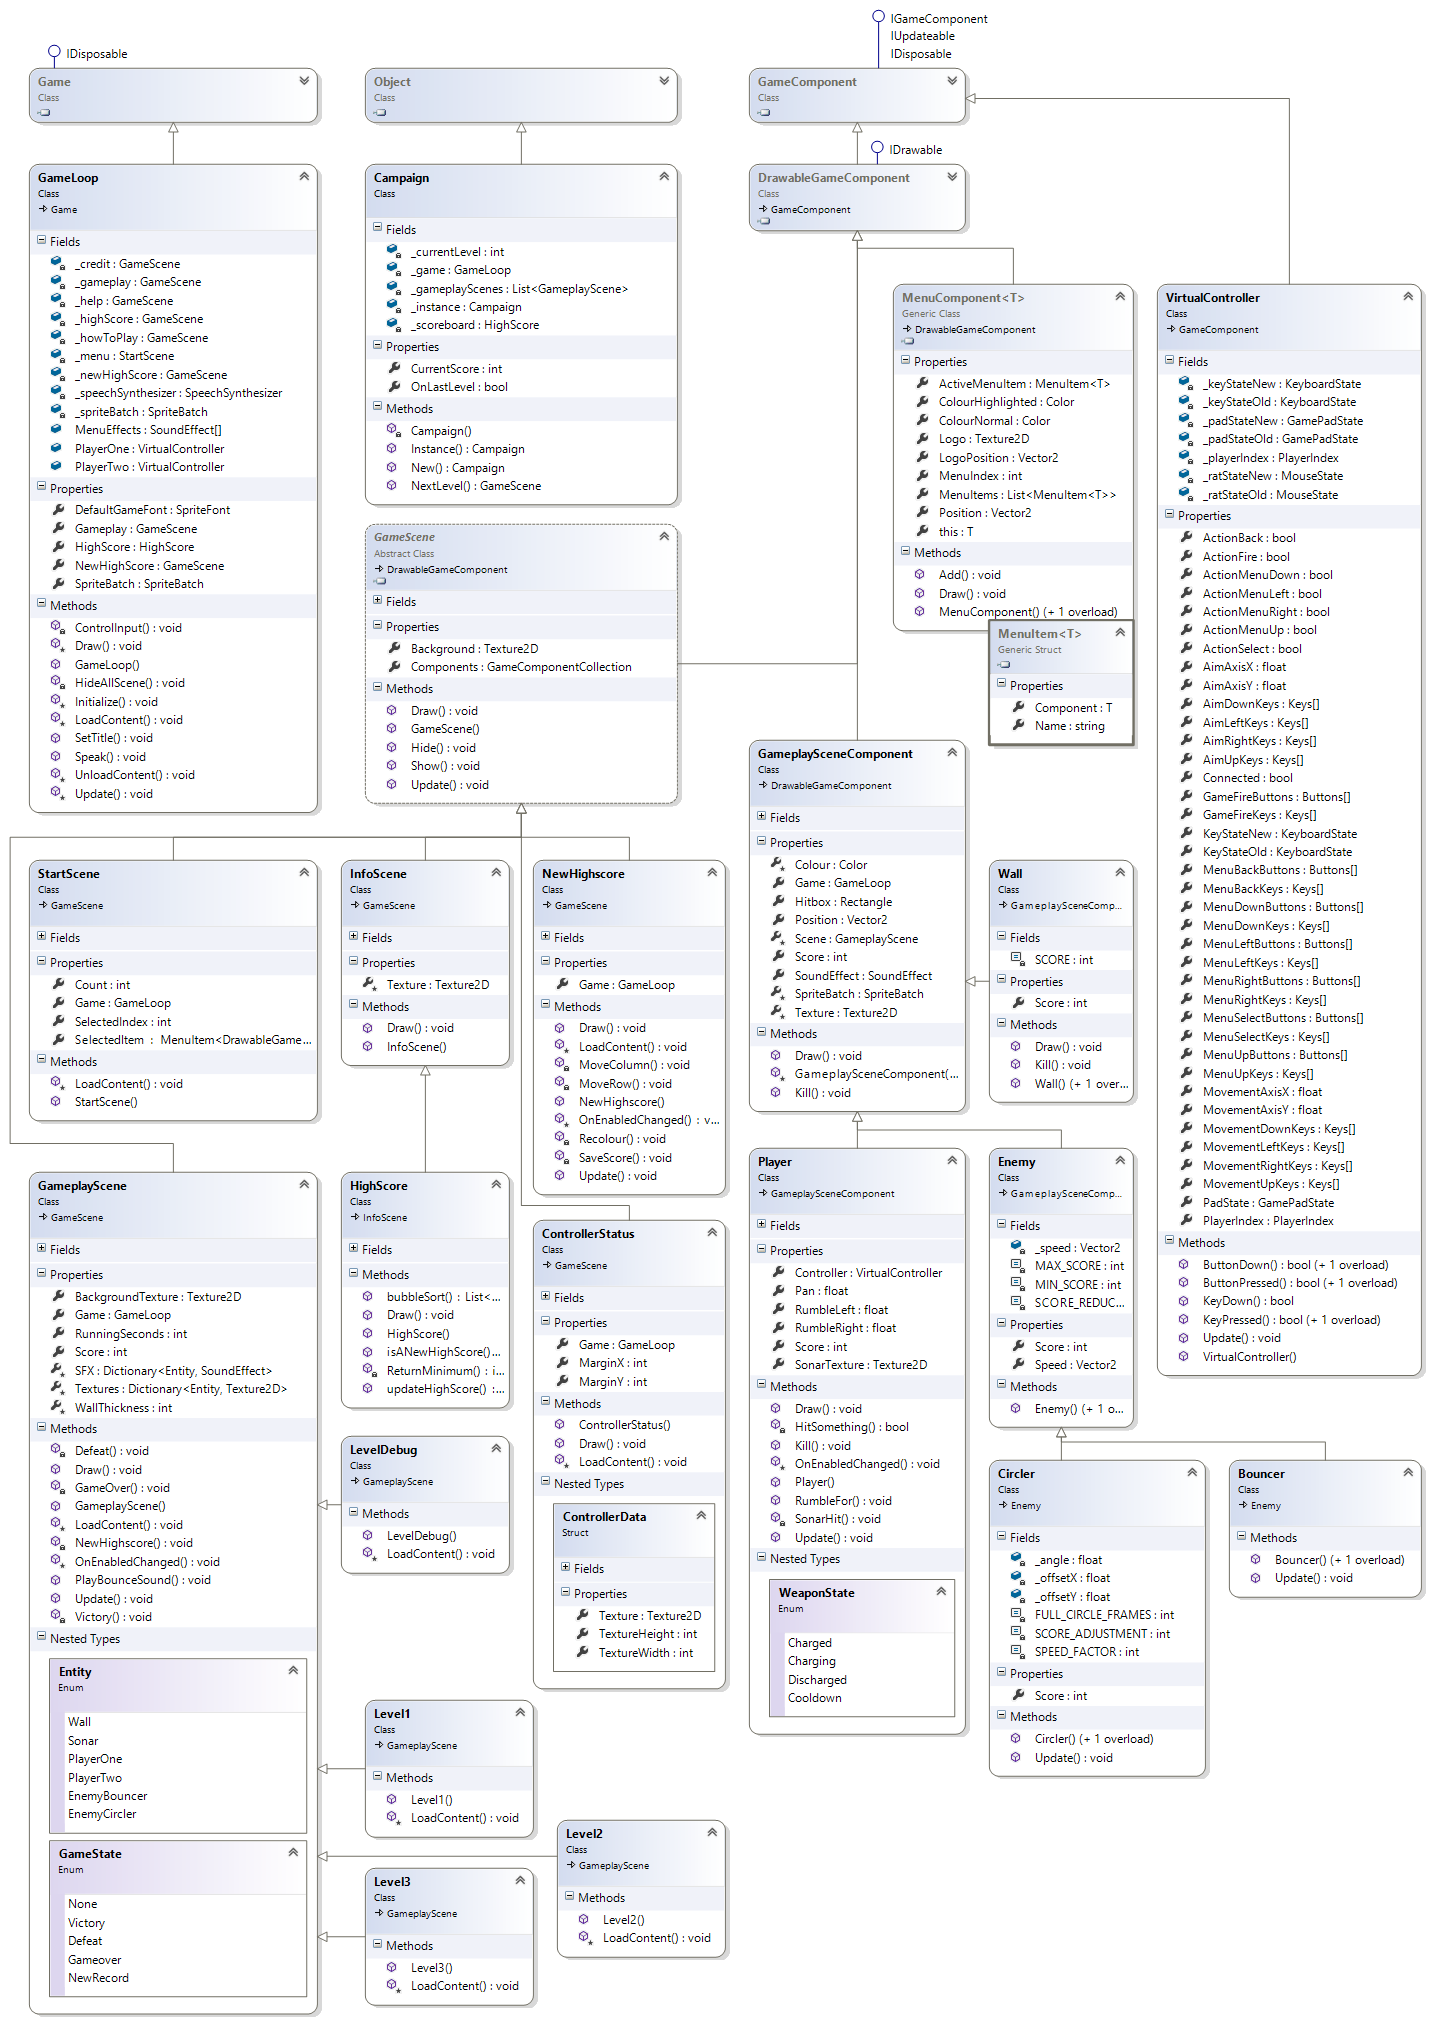
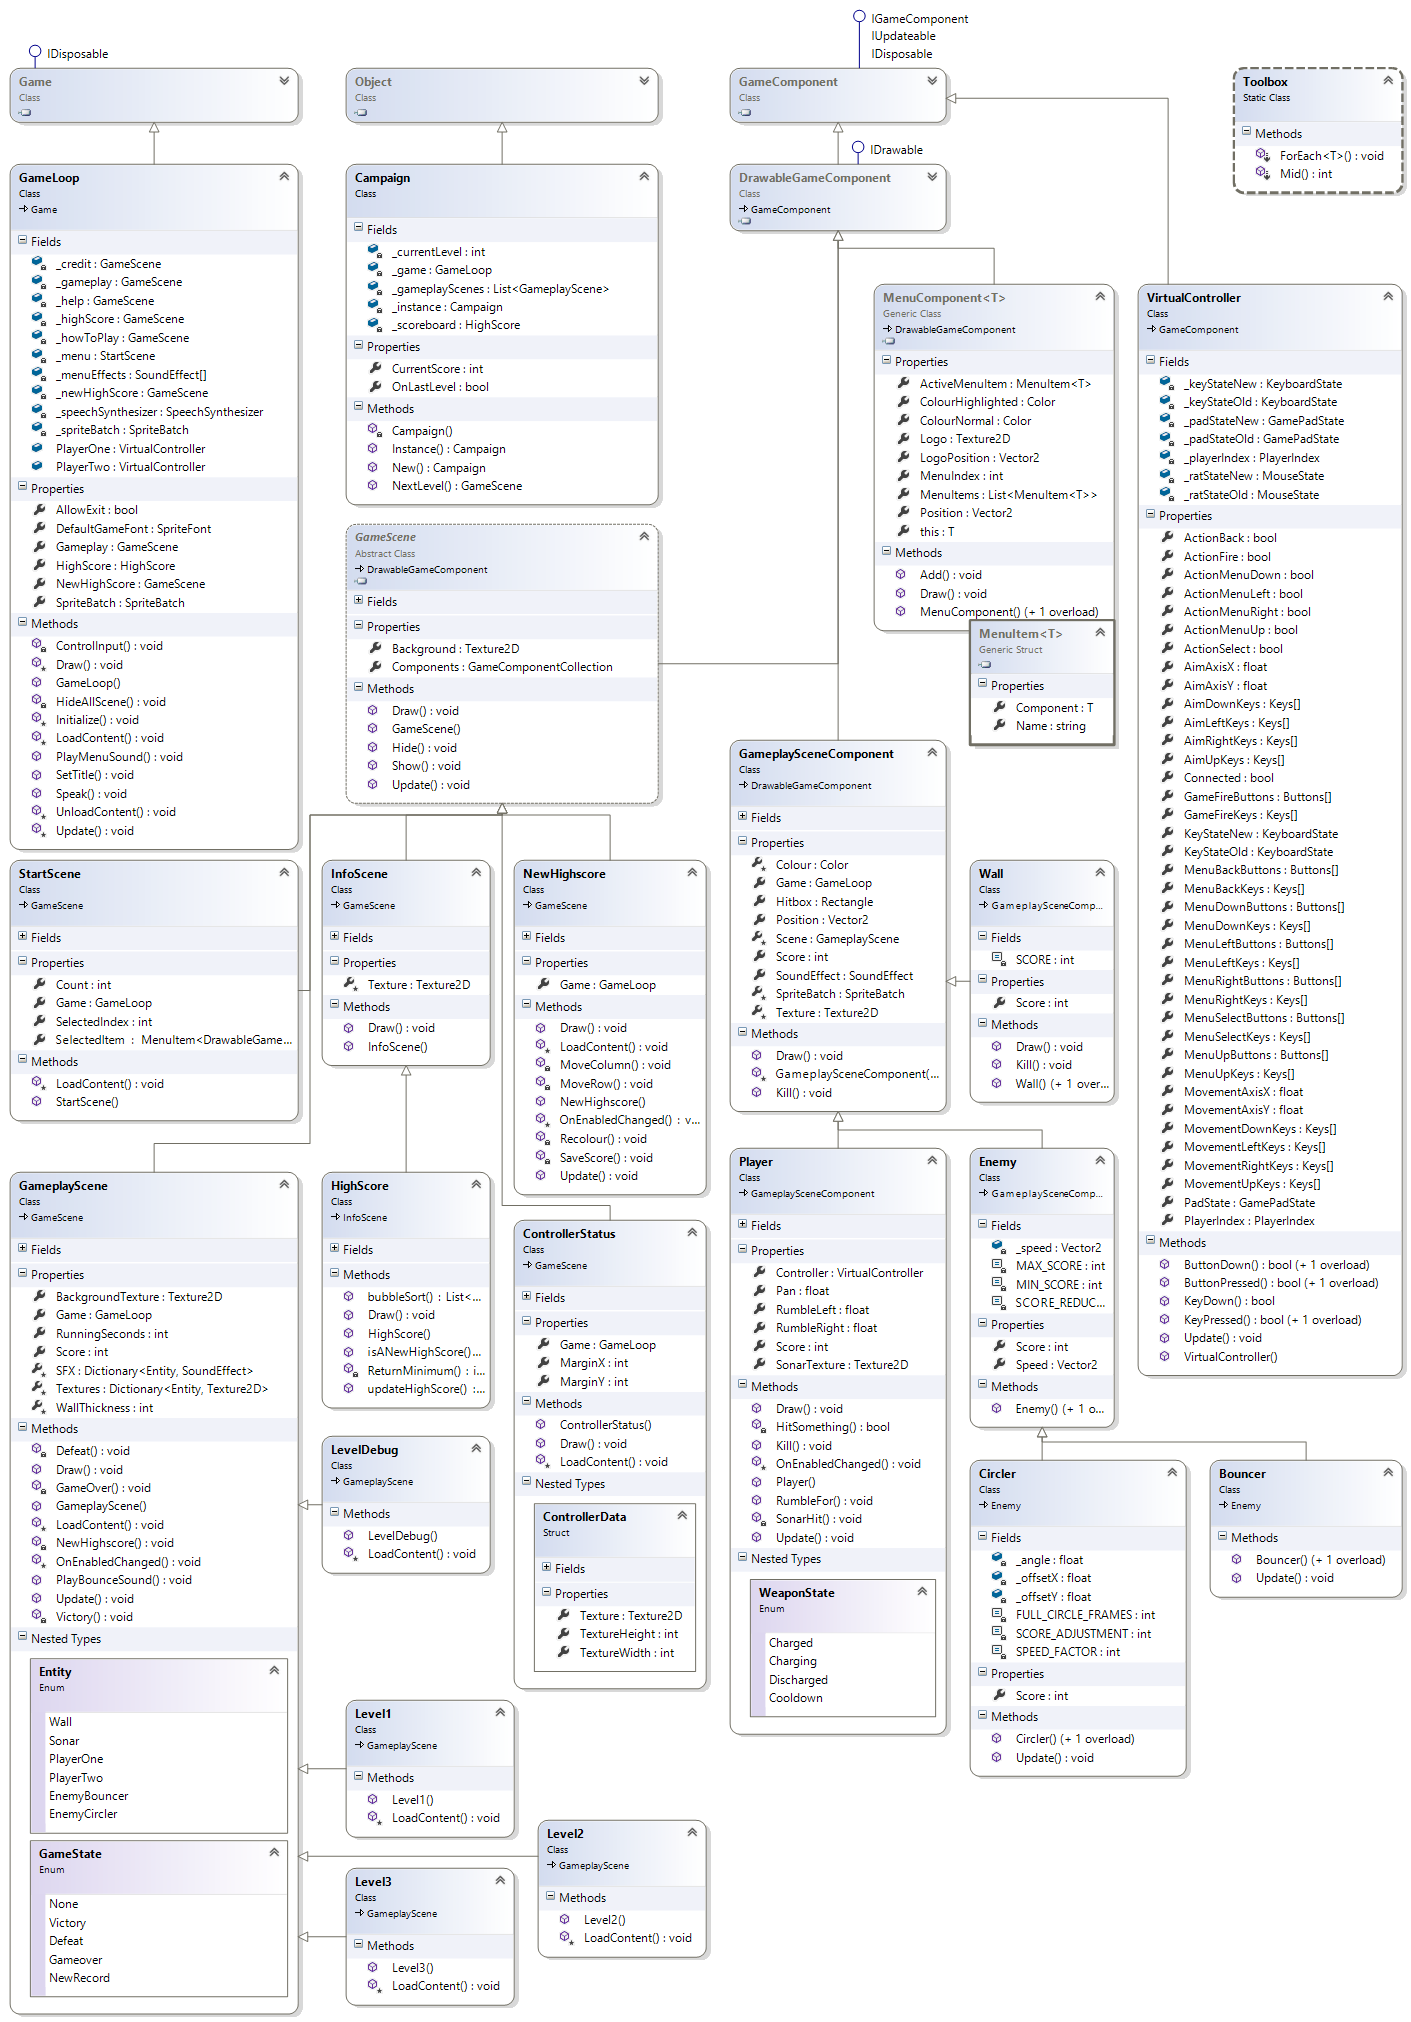
Changed menuEffects on gameloop, made Toolbox static class.

diff --git a/SoundScape/SoundScape/GameLoop.cs b/SoundScape/SoundScape/GameLoop.cs
@@ -26,7 +26,7 @@ namespace SoundScape
     /// </summary>
     public class GameLoop : Game
     {
-        public SoundEffect[] MenuEffects; 
+        private SoundEffect[] _menuEffects; 
         private SpriteBatch _spriteBatch;
         private SpeechSynthesizer _speechSynthesizer;
 
@@ -150,7 +150,7 @@ namespace SoundScape
             // Create a new SpriteBatch, which can be used to draw textures.
             _spriteBatch = new SpriteBatch(GraphicsDevice);
 
-            MenuEffects = new[]
+            _menuEffects = new[]
             {
                 Content.Load<SoundEffect>("sounds/Beep2"),
                 Content.Load<SoundEffect>("sounds/Beep4"),
@@ -214,6 +214,7 @@ namespace SoundScape
         /// <param name="gameTime">Provides a snapshot of timing values.</param>
         protected override void Update(GameTime gameTime)
         {
+            AllowExit = !_newHighScore.Enabled;
             ControlInput();
             base.Update(gameTime);
         }
@@ -225,21 +226,20 @@ namespace SoundScape
         {
             var inputs = new[] {PlayerOne, PlayerTwo};
             // Allows the game to exit
-            if (!_newHighScore.Enabled && inputs.Any(p => p.ActionBack))
+            if (AllowExit && inputs.Any(p => p.ActionBack))
             {
                 if (_menu.Enabled)
                 {
-                    MenuEffects[0].Play();
+                    PlayMenuSound(0);
                     Exit();
                 }
                 else
                 {
-                    MenuEffects[0].Play();
+                    PlayMenuSound(0);
                     HideAllScene();
                     SetTitle();
                     _menu.Show();
-                    GamePad.SetVibration(PlayerOne.PlayerIndex, 0, 0);
-                    GamePad.SetVibration(PlayerTwo.PlayerIndex, 0, 0);
+                    inputs.ForEach(p => GamePad.SetVibration(p.PlayerIndex, 0, 0));
                 }
             }
 
@@ -291,20 +291,28 @@ namespace SoundScape
                                 : _menu.SelectedItem.Name);
                             break;
                     }
-                    MenuEffects[1].Play();
+                    PlayMenuSound(1);
                 }
 
                 if (inputs.Any(p=>p.ActionMenuDown))
                 {
                     _menu.SelectedIndex = Math.Min(_menu.SelectedIndex + 1, _menu.Count - 1);
-                    MenuEffects[0].Play();
+                    PlayMenuSound(0);
                 }
                 else if (inputs.Any(p=>p.ActionMenuUp))
                 {
                     _menu.SelectedIndex = Math.Max(_menu.SelectedIndex - 1, 0);
-                    MenuEffects[0].Play();
+                    PlayMenuSound(0);
                 }
             }
+        }
+
+        public void PlayMenuSound(int i)
+        {
+            var menuSound = _menuEffects[i.Mid(_menuEffects.Length - 1)];
+            //if (menuSound.State == SoundState.Playing) 
+            //    menuSound.Stop();
+            menuSound.Play();
         }
 
         /// <summary>
@@ -316,5 +324,7 @@ namespace SoundScape
             GraphicsDevice.Clear(Color.Black);
             base.Draw(gameTime);
         }
+
+        public bool AllowExit { get; set; }
     }
 }

diff --git a/SoundScape/SoundScape/NewHighscore.cs b/SoundScape/SoundScape/NewHighscore.cs
@@ -113,14 +113,13 @@ namespace SoundScape
 
         private void MoveColumn(int i, bool save = true)
         {
-            Game.MenuEffects[1].Play();
+            Game.PlayMenuSound(1);
             _activePosition += i;
 
             if (save && (_activePosition >= _letterMenuComponents.Length || _activePosition < 0 ||
                 (i > 0 && _letterMenuComponents[_activePosition - i].ActiveMenuItem.Component == ' ')))
                 SaveScore();
-
-            _activePosition = Math.Min(_letterMenuComponents.Length-1, Math.Max(0, _activePosition));
+            _activePosition = _activePosition.Mid(_letterMenuComponents.Length - 1);
             Recolour();
         }
 
@@ -134,7 +133,7 @@ namespace SoundScape
 
         private void MoveRow(int i)
         {
-            Game.MenuEffects[0].Play();
+            Game.PlayMenuSound(0);
             var active = _letterMenuComponents[_activePosition];
             active.MenuIndex = active.MenuIndex + i;
             if (active.MenuIndex < ALPHABET_LENGTH)
@@ -185,17 +184,6 @@ namespace SoundScape
             {
                 _activePosition = 0;
                 Recolour();
-            }
-        }
-    }
-
-    internal static class Toolbox
-    {
-        public static void ForEach<T>(this IEnumerable<T> value, Action<T> action)
-        {
-            foreach (T item in value)
-            {
-                action(item);
             }
         }
     }

diff --git a/SoundScape/SoundScape/Toolbox.cs b/SoundScape/SoundScape/Toolbox.cs
@@ -1,0 +1,23 @@
+using System;
+using System.Collections.Generic;
+using System.Linq;
+using System.Text;
+
+namespace SoundScape
+{
+    internal static class Toolbox
+    {
+        public static void ForEach<T>(this IEnumerable<T> value, Action<T> action)
+        {
+            foreach (T item in value)
+            {
+                action(item);
+            }
+        }
+
+        public static int Mid(this int value, int max, int min = 0)
+        {
+            return Math.Min(max, Math.Max(min, value));
+        }
+    }
+}
